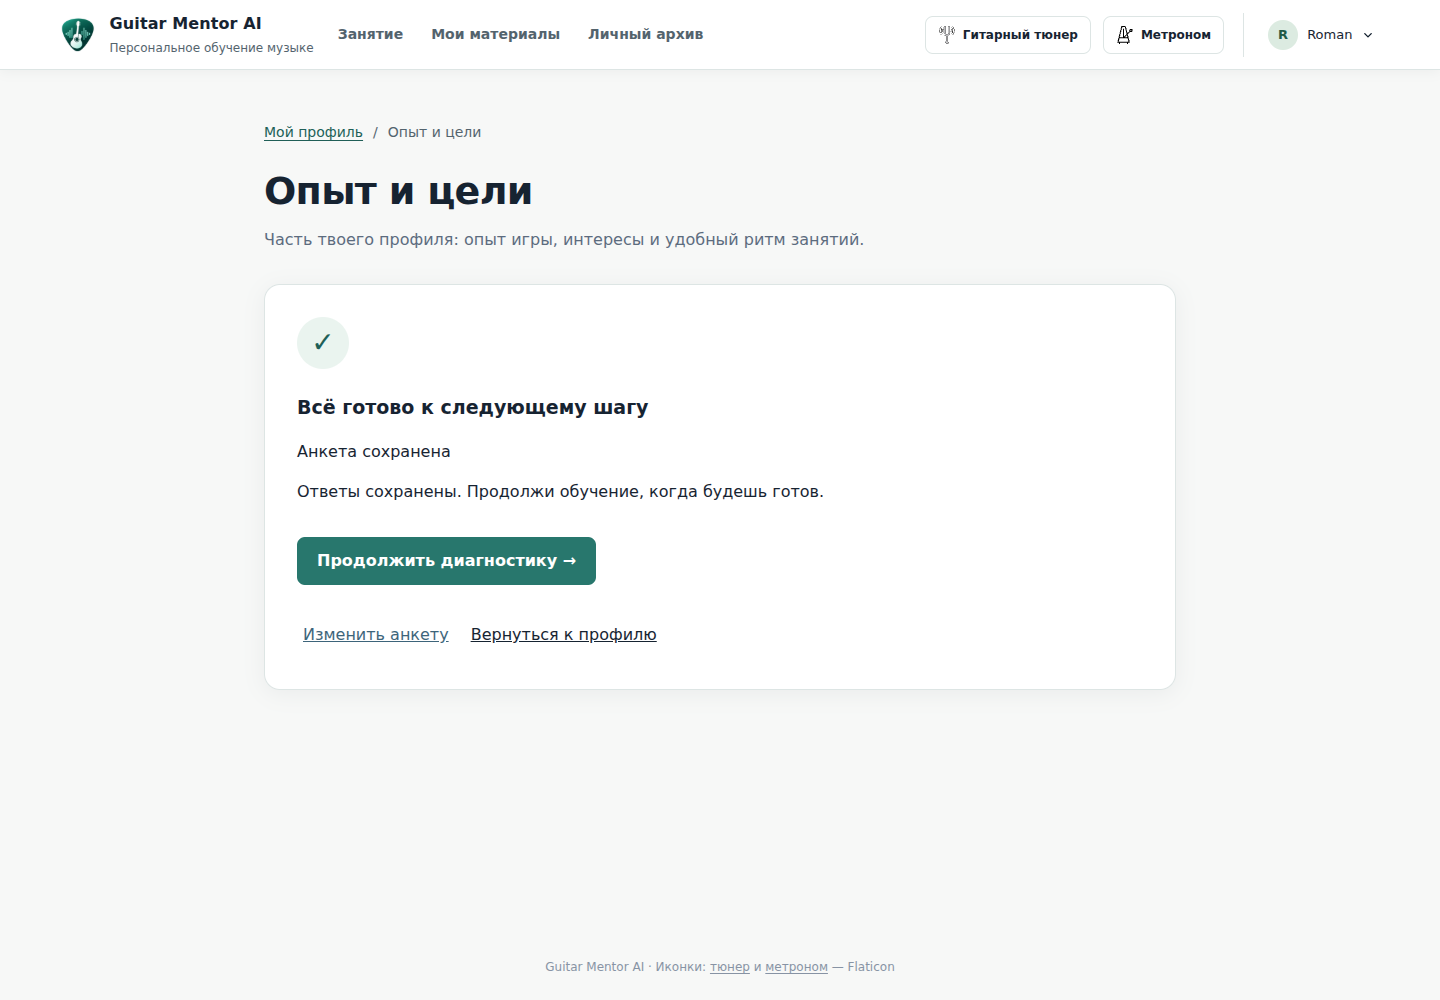
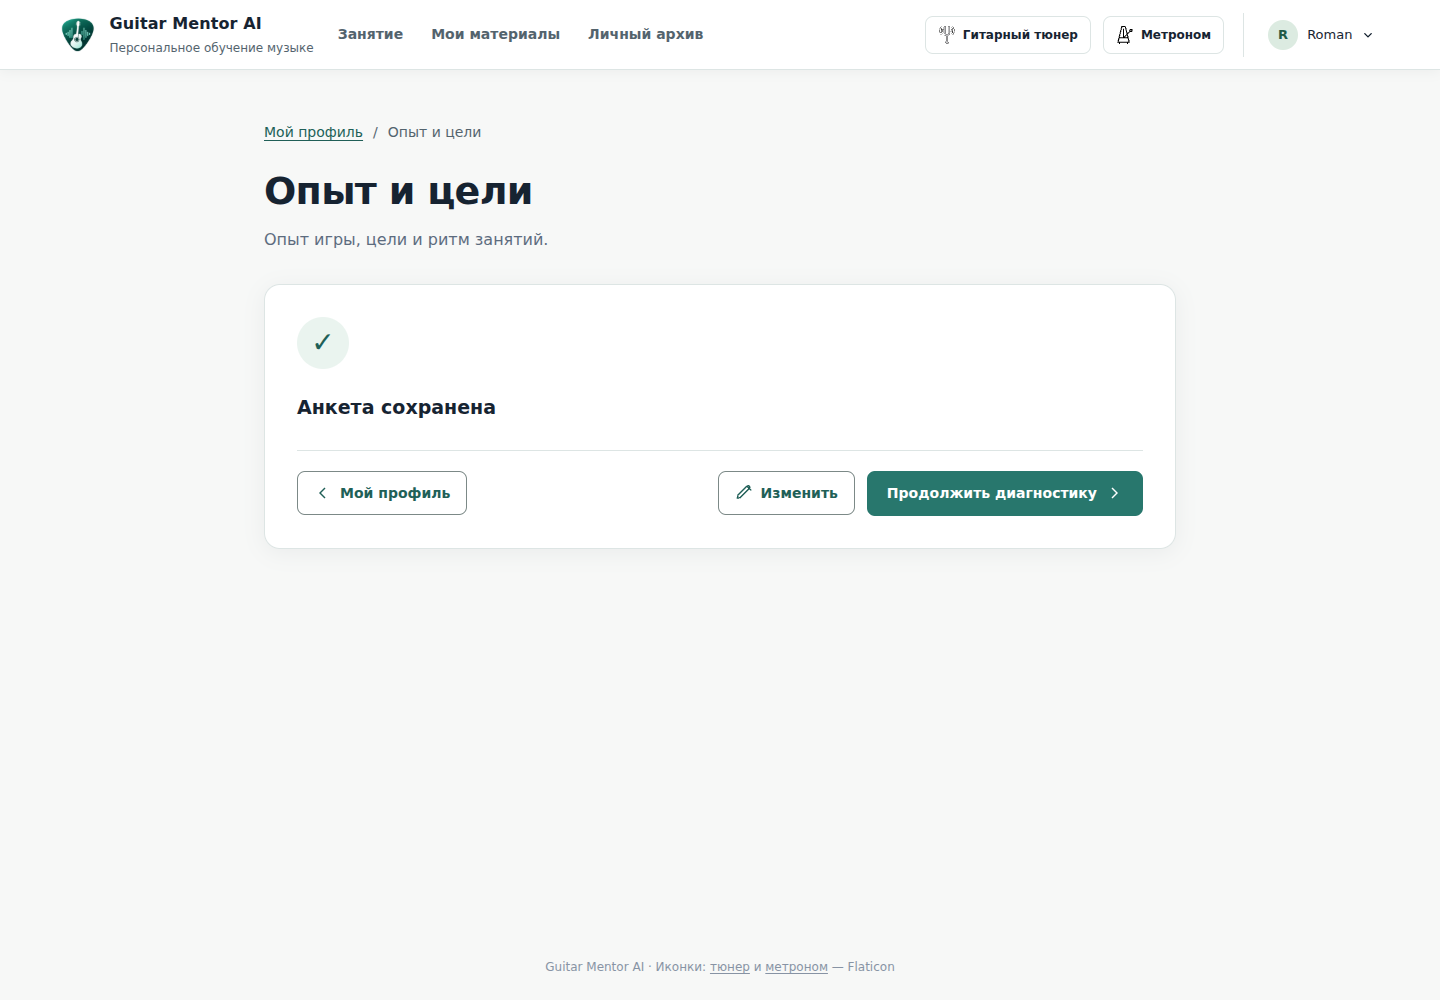
fix(onboarding): simplify actions and align questionnaire navigation (#229)

Changed region(s): [[0.1875, 0.403, 0.8125, 0.589], [0.1875, 0.217, 0.5938, 0.248], [0.2188, 0.62, 0.4688, 0.651]]

diff --git a/frontend/src/entities/onboarding/OnboardingView.vue b/frontend/src/entities/onboarding/OnboardingView.vue
@@ -18,6 +18,14 @@ const experienceOptions: ExperienceLevel[] = ['NONE', 'BEGINNER', 'INTERMEDIATE'
 const skillOptions: SkillTag[] = [
   'CHORDS', 'STRUMMING', 'ARPEGGIOS', 'FINGERSTYLE_MELODY',
 ];
+const actionIcons = {
+  back: 'm14 6-6 6 6 6',
+  next: 'm10 6 6 6-6 6',
+  save: 'M19 21H5a2 2 0 0 1-2-2V5a2 2 0 0 1 2-2h12l4 4v12a2 2 0 0 1-2 2ZM7 3v6h10V3M7 21v-8h10v8',
+  add: 'M12 5v14M5 12h14',
+  remove: 'M3 6h18M9 6V4h6v2M5 6l1 14h12l1-14M10 10v6M14 10v6',
+  edit: 'm16 3 5 5M4 15 16 3a2 2 0 0 1 3 3L7 18l-4 1 1-4Z',
+} as const;
 const goalOptions: GoalCode[] = [
   'FINGERSTYLE', 'RHYTHM', 'INDEPENDENT_BASS',
   'DIFFERENT_STYLES', 'COMPOSITIONS', 'THEORY',
@@ -240,17 +248,20 @@ async function save(complete = true): Promise<void> {
     <div v-else-if="!learnerStore.learner" class="panel"><p>{{ t('onboarding.needProfile') }}</p><RouterLink to="/profile">{{ t('app.profile') }}</RouterLink></div>
     <section v-else-if="saved" class="panel completion-panel">
       <span class="completion-mark" aria-hidden="true">✓</span>
-      <h2 ref="heading" tabindex="-1">{{ t('profileUx.completeTitle') }}</h2>
-      <p role="status">{{ t('onboarding.saved') }}</p>
-      <p>{{ t('profileUx.completeDescription') }}</p>
+      <h2 ref="heading" tabindex="-1" role="status">{{ t('onboarding.saved') }}</h2>
       <p v-if="resolvingNext" role="status">{{ t('profileUx.resolvingNext') }}</p>
       <div v-else-if="nextError" role="alert"><p>{{ t(apiFailureKey(nextError)) }}</p><button type="button" class="action-button" @click="resolveNext">{{ t('home.retry') }}</button></div>
-      <RouterLink v-else-if="summary" :to="nextTarget" class="action-button primary-link">{{ nextLabel }} →</RouterLink>
-      <div class="form-actions"><button type="button" class="text-button" @click="editAgain">{{ t('profileUx.editAnswers') }}</button><RouterLink to="/profile">{{ t('onboarding.profileBack') }}</RouterLink></div>
+      <div class="form-actions completion-actions">
+        <RouterLink to="/profile" class="action-button secondary-button completion-back" :title="t('onboarding.profileBack')"><svg class="action-icon" viewBox="0 0 24 24" width="18" height="18" fill="none" stroke="currentColor" stroke-width="1.8" stroke-linecap="round" stroke-linejoin="round" aria-hidden="true" focusable="false"><path :d="actionIcons.back" /></svg><span class="action-label">{{ t('profileUx.title') }}</span></RouterLink>
+        <div class="wizard-actions-end">
+          <button type="button" class="action-button secondary-button" :title="t('profileUx.editAnswers')" @click="editAgain"><svg class="action-icon" viewBox="0 0 24 24" width="18" height="18" fill="none" stroke="currentColor" stroke-width="1.8" stroke-linecap="round" stroke-linejoin="round" aria-hidden="true" focusable="false"><path :d="actionIcons.edit" /></svg><span>{{ t('profileUx.editShort') }}</span></button>
+          <RouterLink v-if="summary && !resolvingNext && !nextError" :to="nextTarget" class="action-button primary-link"><span>{{ nextLabel }}</span><svg class="action-icon" viewBox="0 0 24 24" width="18" height="18" fill="none" stroke="currentColor" stroke-width="1.8" stroke-linecap="round" stroke-linejoin="round" aria-hidden="true" focusable="false"><path :d="actionIcons.next" /></svg></RouterLink>
+        </div>
+      </div>
     </section>
     <form v-else class="panel" @input="edited = true; savedConfirmation = false" @change="edited = true; savedConfirmation = false" @submit.prevent="step < 3 ? nextStep() : save()">
       <ol class="wizard-steps" :aria-label="t('profileUx.stepsLabel')"><li v-for="(label, index) in ['experience', 'goals', 'rhythm']" :key="label" :aria-current="step === index + 1 ? 'step' : undefined" :class="{ current: step === index + 1, done: step > index + 1 }"><span>{{ index + 1 }}</span>{{ t('profileUx.steps.' + label) }}</li></ol>
-      <p class="step-indicator">{{ t('onboarding.step', { step, total: 3 }) }}</p>
+      <p class="step-indicator sr-only">{{ t('onboarding.step', { step, total: 3 }) }}</p>
       <fieldset class="plain-fieldset" :disabled="saving">
         <template v-if="step === 1">
           <h2 ref="heading" tabindex="-1">{{ t('onboarding.experienceTitle') }}</h2>
@@ -258,8 +269,8 @@ async function save(complete = true): Promise<void> {
           <div class="section-heading"><h3>{{ t('onboarding.skillsTitle') }}</h3><p class="hint">{{ t('onboarding.skillsHint') }}</p></div>
           <div class="choice-grid"><label v-for="code in skillOptions" :key="code" class="choice-checkbox"><input v-model="skills" type="checkbox" :value="code" /><span>{{ t('onboarding.skills.' + code) }}</span></label></div>
           <div class="section-heading"><h3>{{ t('onboarding.piecesTitle') }}</h3><p class="hint">{{ t('onboarding.piecesHint') }}</p></div>
-          <div v-for="(piece, index) in knownPieces" :key="index" class="known-piece-row"><label class="field"><span>{{ t('profileUx.pieceTitle', { number: index + 1 }) }}</span><input v-model="piece.title" data-piece-title required maxlength="120" /></label><label class="field"><span>{{ t('profileUx.pieceArtist') }}</span><input v-model="piece.artist" maxlength="120" /></label><button type="button" class="text-button" :aria-label="t('profileUx.removePiece', { number: index + 1 })" @click="removePiece(index)">{{ t('profileUx.remove') }}</button></div>
-          <button ref="addPieceButton" type="button" class="action-button secondary-button" :disabled="knownPieces.length >= 10" @click="addPiece">+ {{ t('profileUx.addPiece') }}</button>
+          <div v-for="(piece, index) in knownPieces" :key="index" class="known-piece-row"><label class="field"><span>{{ t('profileUx.pieceTitle', { number: index + 1 }) }}</span><input v-model="piece.title" data-piece-title required maxlength="120" /></label><label class="field"><span>{{ t('profileUx.pieceArtist') }}</span><input v-model="piece.artist" maxlength="120" /></label><button type="button" data-remove-piece class="piece-remove icon-button" :aria-label="t('profileUx.removePiece', { number: index + 1 })" :title="t('profileUx.removePiece', { number: index + 1 })" @click="removePiece(index)"><svg class="action-icon" viewBox="0 0 24 24" width="18" height="18" fill="none" stroke="currentColor" stroke-width="1.8" stroke-linecap="round" stroke-linejoin="round" aria-hidden="true" focusable="false"><path :d="actionIcons.remove" /></svg></button></div>
+          <button ref="addPieceButton" data-add-piece type="button" class="action-button piece-add" :disabled="knownPieces.length >= 10" :aria-label="t('profileUx.addPiece')" :title="t('profileUx.addPiece')" @click="addPiece"><svg class="action-icon" viewBox="0 0 24 24" width="18" height="18" fill="none" stroke="currentColor" stroke-width="1.8" stroke-linecap="round" stroke-linejoin="round" aria-hidden="true" focusable="false"><path :d="actionIcons.add" /></svg><span>{{ t('profileUx.addShort') }}</span></button>
         </template>
         <template v-else-if="step === 2">
           <h2 ref="heading" tabindex="-1">{{ t('onboarding.goalsTitle') }}</h2><p class="hint">{{ t('profileUx.goalsHint') }}</p>
@@ -272,10 +283,12 @@ async function save(complete = true): Promise<void> {
           <div class="form-grid"><label class="field"><span>{{ t('onboarding.practiceMinutes') }}</span><input v-model.number="practiceMinutes" type="number" min="10" max="120" required /></label><label class="field"><span>{{ t('onboarding.sessionsPerWeek') }}</span><input v-model.number="sessionsPerWeek" type="number" min="1" max="7" required /></label></div>
         </template>
         <div class="form-actions wizard-actions">
-          <button v-if="step > 1" type="button" class="text-button" @click="backStep">← {{ t('onboarding.back') }}</button>
-          <button v-if="step < 3" type="button" class="action-button" :disabled="!maySave" :aria-busy="saving" @click="save(false)">{{ saving ? t('form.saving') : t('onboarding.saveChanges') }}</button>
-          <button v-if="step < 3" type="submit" class="action-button secondary-button wizard-next">{{ t('onboarding.next') }} →</button>
-          <button v-else type="submit" :disabled="!maySave" :aria-busy="saving">{{ saving ? t('form.saving') : t('onboarding.save') }}</button>
+          <button v-if="step > 1" type="button" class="action-button secondary-button wizard-nav" :aria-label="t('onboarding.back')" :title="t('onboarding.back')" @click="backStep"><svg class="action-icon" viewBox="0 0 24 24" width="18" height="18" fill="none" stroke="currentColor" stroke-width="1.8" stroke-linecap="round" stroke-linejoin="round" aria-hidden="true" focusable="false"><path :d="actionIcons.back" /></svg><span class="action-label">{{ t('onboarding.back') }}</span></button>
+          <div class="wizard-actions-end">
+            <button v-if="step < 3" type="button" class="action-button wizard-save" :disabled="!maySave" :aria-busy="saving" :aria-label="t('onboarding.saveChanges')" :title="t('onboarding.saveChanges')" @click="save(false)"><svg class="action-icon" viewBox="0 0 24 24" width="18" height="18" fill="none" stroke="currentColor" stroke-width="1.8" stroke-linecap="round" stroke-linejoin="round" aria-hidden="true" focusable="false"><path :d="actionIcons.save" /></svg><span>{{ saving ? t('form.saving') : t('onboarding.saveShort') }}</span></button>
+            <button v-if="step < 3" type="submit" class="action-button secondary-button wizard-nav wizard-next" :aria-label="t('onboarding.next')" :title="t('onboarding.next')"><span class="action-label">{{ t('onboarding.next') }}</span><svg class="action-icon" viewBox="0 0 24 24" width="18" height="18" fill="none" stroke="currentColor" stroke-width="1.8" stroke-linecap="round" stroke-linejoin="round" aria-hidden="true" focusable="false"><path :d="actionIcons.next" /></svg></button>
+            <button v-else type="submit" class="action-button wizard-save" :disabled="!maySave" :aria-busy="saving"><svg class="action-icon" viewBox="0 0 24 24" width="18" height="18" fill="none" stroke="currentColor" stroke-width="1.8" stroke-linecap="round" stroke-linejoin="round" aria-hidden="true" focusable="false"><path :d="actionIcons.save" /></svg><span>{{ saving ? t('form.saving') : t('onboarding.save') }}</span></button>
+          </div>
         </div>
         <p v-if="savedConfirmation" class="saved-confirmation" role="status">✓ {{ t('form.saved') }}</p>
       </fieldset>

diff --git a/frontend/src/assets/learner-experience.css b/frontend/src/assets/learner-experience.css
@@ -48,14 +48,6 @@
 
 .learner-experience h2[tabindex="-1"]:focus { outline: none; }
 
-/* The wizard distinguishes persistence from navigation on every step. */
-.app-shell .learner-experience .wizard-actions .secondary-button {
-  background: #eef2f0; color: #205f57; border: 1px solid #7c8987;
-}
-.app-shell .learner-experience .wizard-actions .secondary-button:hover:not(:disabled) {
-  background: #dfece6; color: #205f57;
-}
-
 .learner-experience .learning-summary { margin: 28px 0; padding-top: 28px; border-top: 1px solid #dde5e4; }
 .learner-experience .learning-summary .page-heading { align-items: baseline; }
 .learner-experience .learner-facts { display: grid; grid-template-columns: repeat(2,minmax(0,1fr)); gap: 16px; margin: 8px 0 20px; }
@@ -66,3 +58,35 @@
 .learner-experience .google-provider .auth-form { margin-top: 16px; }
 .learner-experience .google-provider .hint { margin: 8px 0 16px; }
 @media(max-width:600px) { .learner-experience .learner-facts { grid-template-columns: minmax(0,1fr); } }
+
+/* Questionnaire: list actions stay with the list; progress actions align to the right. */
+.learner-experience .action-icon { flex: 0 0 18px; }
+.learner-experience .wizard-actions,
+.learner-experience .completion-actions { justify-content: space-between; gap: 12px; padding-top: 20px; border-top: 1px solid #dde5e4; }
+.learner-experience .wizard-actions-end { display: flex; align-items: center; justify-content: flex-end; gap: 12px; margin-left: auto; min-width: 0; }
+.learner-experience .wizard-actions :is(button,a),
+.learner-experience .completion-actions :is(button,a),
+.learner-experience .piece-add { display: inline-flex; align-items: center; justify-content: center; gap: 8px; min-height: 44px; text-decoration: none; font-size: 14px; }
+.app-shell .learner-experience :is(.wizard-actions,.completion-actions) .secondary-button,
+.app-shell .learner-experience .piece-add { border: 1px solid #7c8987; background: transparent; color: #205f57; padding: 10px 16px; border-radius: 8px; font-weight: 600; }
+.app-shell .learner-experience :is(.wizard-actions,.completion-actions) .secondary-button:hover:not(:disabled),
+.app-shell .learner-experience .piece-add:hover:not(:disabled) { background: #eaf2ee; color: #205f57; }
+.app-shell .learner-experience .wizard-nav { min-width: 116px; }
+.app-shell .learner-experience .wizard-save { padding: 11px 16px; }
+.learner-experience .completion-actions .primary-link { margin-top: 0; }
+.learner-experience .piece-remove { display: inline-grid; place-items: center; width: 44px; height: 44px; padding: 10px; border: 1px solid #c9d5d1; border-radius: 8px; color: #53636d; background: transparent; cursor: pointer; }
+.learner-experience .piece-remove:hover { color: #a42d32; border-color: #a42d32; background: #fff4f3; }
+@media(max-width:600px) {
+  .learner-experience .wizard-actions { flex-wrap: nowrap; gap: 8px; }
+  .learner-experience .wizard-actions > .wizard-actions-end { flex: 0 1 auto; gap: 8px; }
+  .app-shell .learner-experience .wizard-actions .wizard-nav { flex: 0 0 44px; min-width: 44px; width: 44px; padding: 10px; }
+  .learner-experience .wizard-actions .wizard-nav .action-label { display: none; }
+  .app-shell .learner-experience .wizard-save { padding: 11px 12px; }
+  .learner-experience .known-piece-row .piece-remove { justify-self: end; }
+  .learner-experience .completion-actions > .wizard-actions-end { flex-wrap: wrap; flex: 1 1 100%; }
+  .learner-experience .completion-actions .primary-link { flex: 1 1 100%; }
+}
+@media(max-width:340px) {
+  .learner-experience .wizard-actions { flex-wrap: wrap; }
+  .learner-experience .wizard-actions > .wizard-actions-end { flex: 1 1 100%; flex-wrap: wrap; }
+}

diff --git a/docs/testing/issue-229-profile-onboarding-ux.md b/docs/testing/issue-229-profile-onboarding-ux.md
@@ -43,6 +43,7 @@ Java/API/БД и миграции не менялись.
 | UX229-A02 | Профиль и опыт/цели в одной карточке; вход к редактированию из профиля, breadcrumb анкеты; личные пункты убраны из главной навигации | PASS, реальный переход по ссылке из карточки; старый `/onboarding` совместим |
 | UX229-A03 | Google form скрыта до явного действия, отдельный password model; cancel/success очищают секрет, правильный endpoint и OAuth redirect | PASS, два новых mounted сценария и Chromium; реальный Google OAuth остаётся ручной проверкой |
 | UX229-A04 | Профиль/settings/язык/выход с декоративными иконками и текстом; меню desktop/mobile RU/EN | PASS, screenshots, доступные подписи сохранены |
+| UX229-A05 | Строка действий: Back слева, save/next справа; одинаковые border/background/height у навигации; мобильные 44px и accessible names | PASS, реальные browser rect/computed-style проверки; иконки add/remove/save, короткий текст, completion reflow RU/EN |
 | UX229-18 | Регрессия нотного viewer, выбора следующего урока, истории попыток | PASS, три существующих Chromium suite |
 
 Результаты команд:
@@ -130,3 +131,16 @@ npm run test:profile-browser
 `npm test`: 197 PASS. Два новых mounted теста проверяют изоляцию паролей, request body, cancel, успешный redirect. Chromium suite проверяет единую карточку, переход из неё к анкете, отсутствие дубликатов в header, иконки, раскрытие Google и RU/EN × 360/768/1440. Обе сборки проходят. Автоматические browser API по-прежнему mocked; пользовательская приёмка новых исправлений не получена.
 
 Скриншоты: [меню desktop](qa229/account-menu-1440-ru.png), [меню mobile](qa229/account-menu-360-ru.png), [Google с пояснением desktop](qa229/account-google-link-1440-ru.png), [Google mobile](qa229/account-google-link-360-ru.png).
+
+## Приёмочное исправление UX229-A05 — 26.10.2026
+
+По двум скриншотам владельца действия были перегружены текстом и собраны слева, «Назад» выглядел как текстовая ссылка, а «Продолжить» как кнопка.
+
+- На desktop «Назад» слева; справа — сохранение и следующий шаг. Back/Next используют один outlined стиль, одинаковую высоту и стрелки. На телефоне обе навигационные кнопки компактные 44×44 со стрелками, доступными именами и title; у сохранения остаётся видимый текст.
+- Add остаётся возле произведений компактной кнопкой с плюсом. Удаление — корзина с названием конкретного произведения для screen reader и tooltip. Фокус после добавления/удаления сохранён.
+- Подсказки сокращены, обязательность/лимиты/валидация сохранены. Визуальный прогресс уже показывает номер шага; дополнительный текст «Шаг X из 3» оставлен screen reader.
+- На завершении убраны повторные сообщения; возврат к профилю слева, редактирование и текущая next action справа. Мобильное завершение переносится без overflow.
+
+Основные сценарии сохранения/ошибок/двойного клика/переходов по-прежнему проверены: `npm test` — 197 PASS. Тестовый renderer теперь находит кнопки по вложенному тексту и доступному имени, поэтому декоративные SVG не ослабляют существующие проверки. Browser suite дополнительно сверяет фактические rect и computed style Back/Next, порядок действий, touch targets, RU/EN на 360px всех трёх шагов и завершения. Обе сборки проходят. Проверены реальные screenshots, авторское ревью исправления выполнено. Пользовательская приёмка новой версии остаётся открытой.
+
+[Шаг 2 desktop](qa229/onboarding-step2-1440-ru.png), [шаг 2 mobile RU](qa229/onboarding-step2-360-ru.png), [завершение mobile EN](qa229/onboarding-complete-360-en.png).

diff --git a/docs/reviews/issue-229-profile-ux-review.md b/docs/reviews/issue-229-profile-ux-review.md
@@ -9,3 +9,5 @@
 Приёмочный дефект UX229-A01 исправлен в том же PR: явное сохранение на шагах 1/2 без перехода, валидация полного API-объекта, сброс устаревшего success при изменении произведений. Добавлены сценарные проверки, повторно просмотрены desktop/mobile скриншоты; `npm test` — 195 PASS. Пользовательская приёмка исправления остаётся открытой.
 
 UX229-A02/A03/A04: просмотрены единая карточка и навигация, декоративные иконки/подписи меню, отдельные модели currentPassword и googlePassword, request body подтверждения, очистка при cancel/redirect/unmount и сохранение backend reauth endpoint. Найденное совместное использование пароля исправлено. Добавлены два mounted теста, расширен Chromium suite; основной набор — 197 PASS. Самостоятельное ревью не заменяет приёмку владельца.
+
+UX229-A05: просмотрены компактные действия списка, общая стилистика Back/Next и правая группа save/next/edit, сохранение явной подписи Save, доступные имена icon-only controls, focus и mobile touch targets. Сетевые операции/guards не менялись. `npm test` — 197 PASS; браузерные проверки rect/computed styles и новые RU/EN screenshots всех шагов/завершения прошли. Итоговую визуальную приёмку выполняет владелец.
